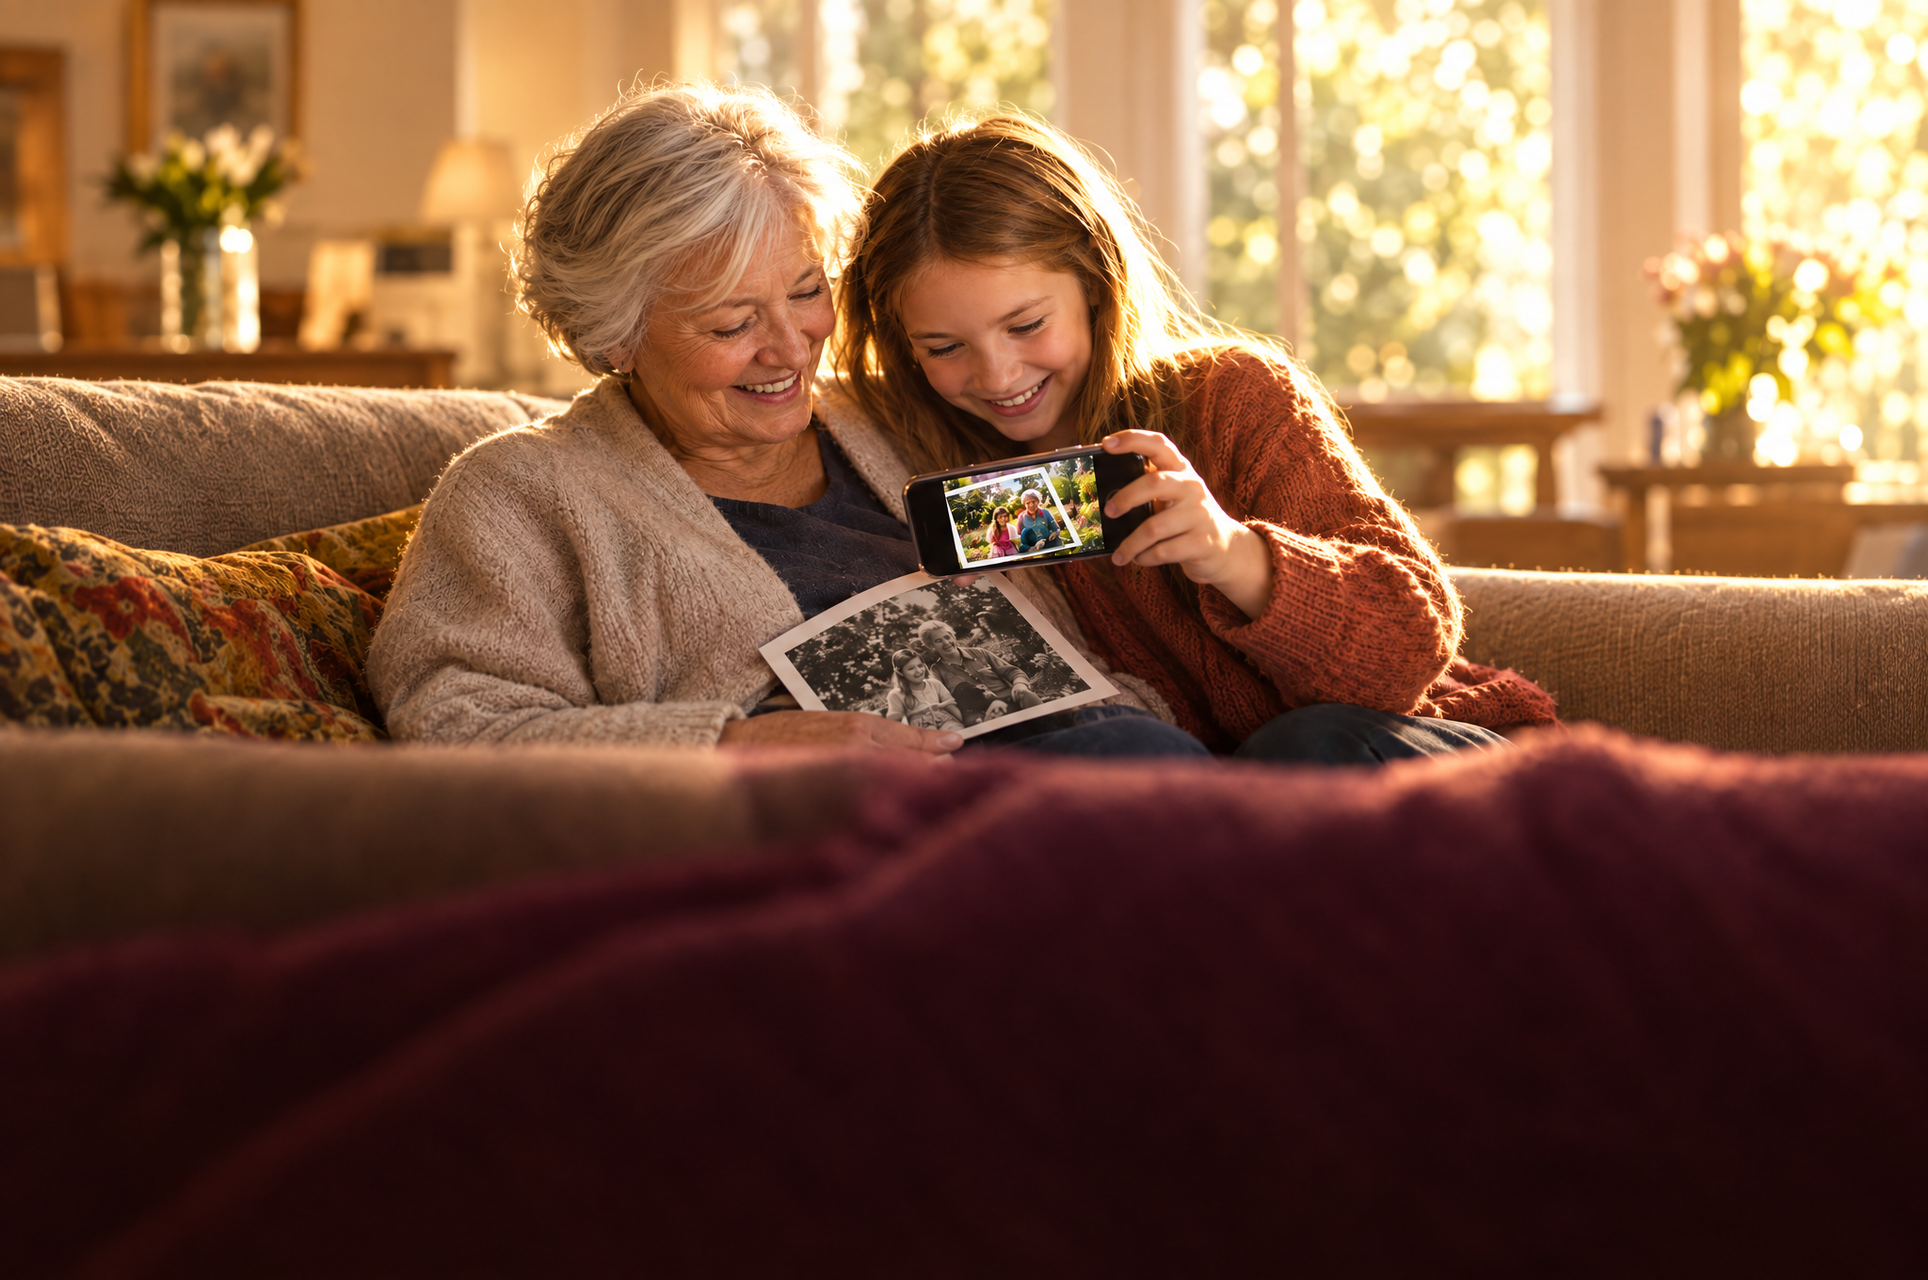
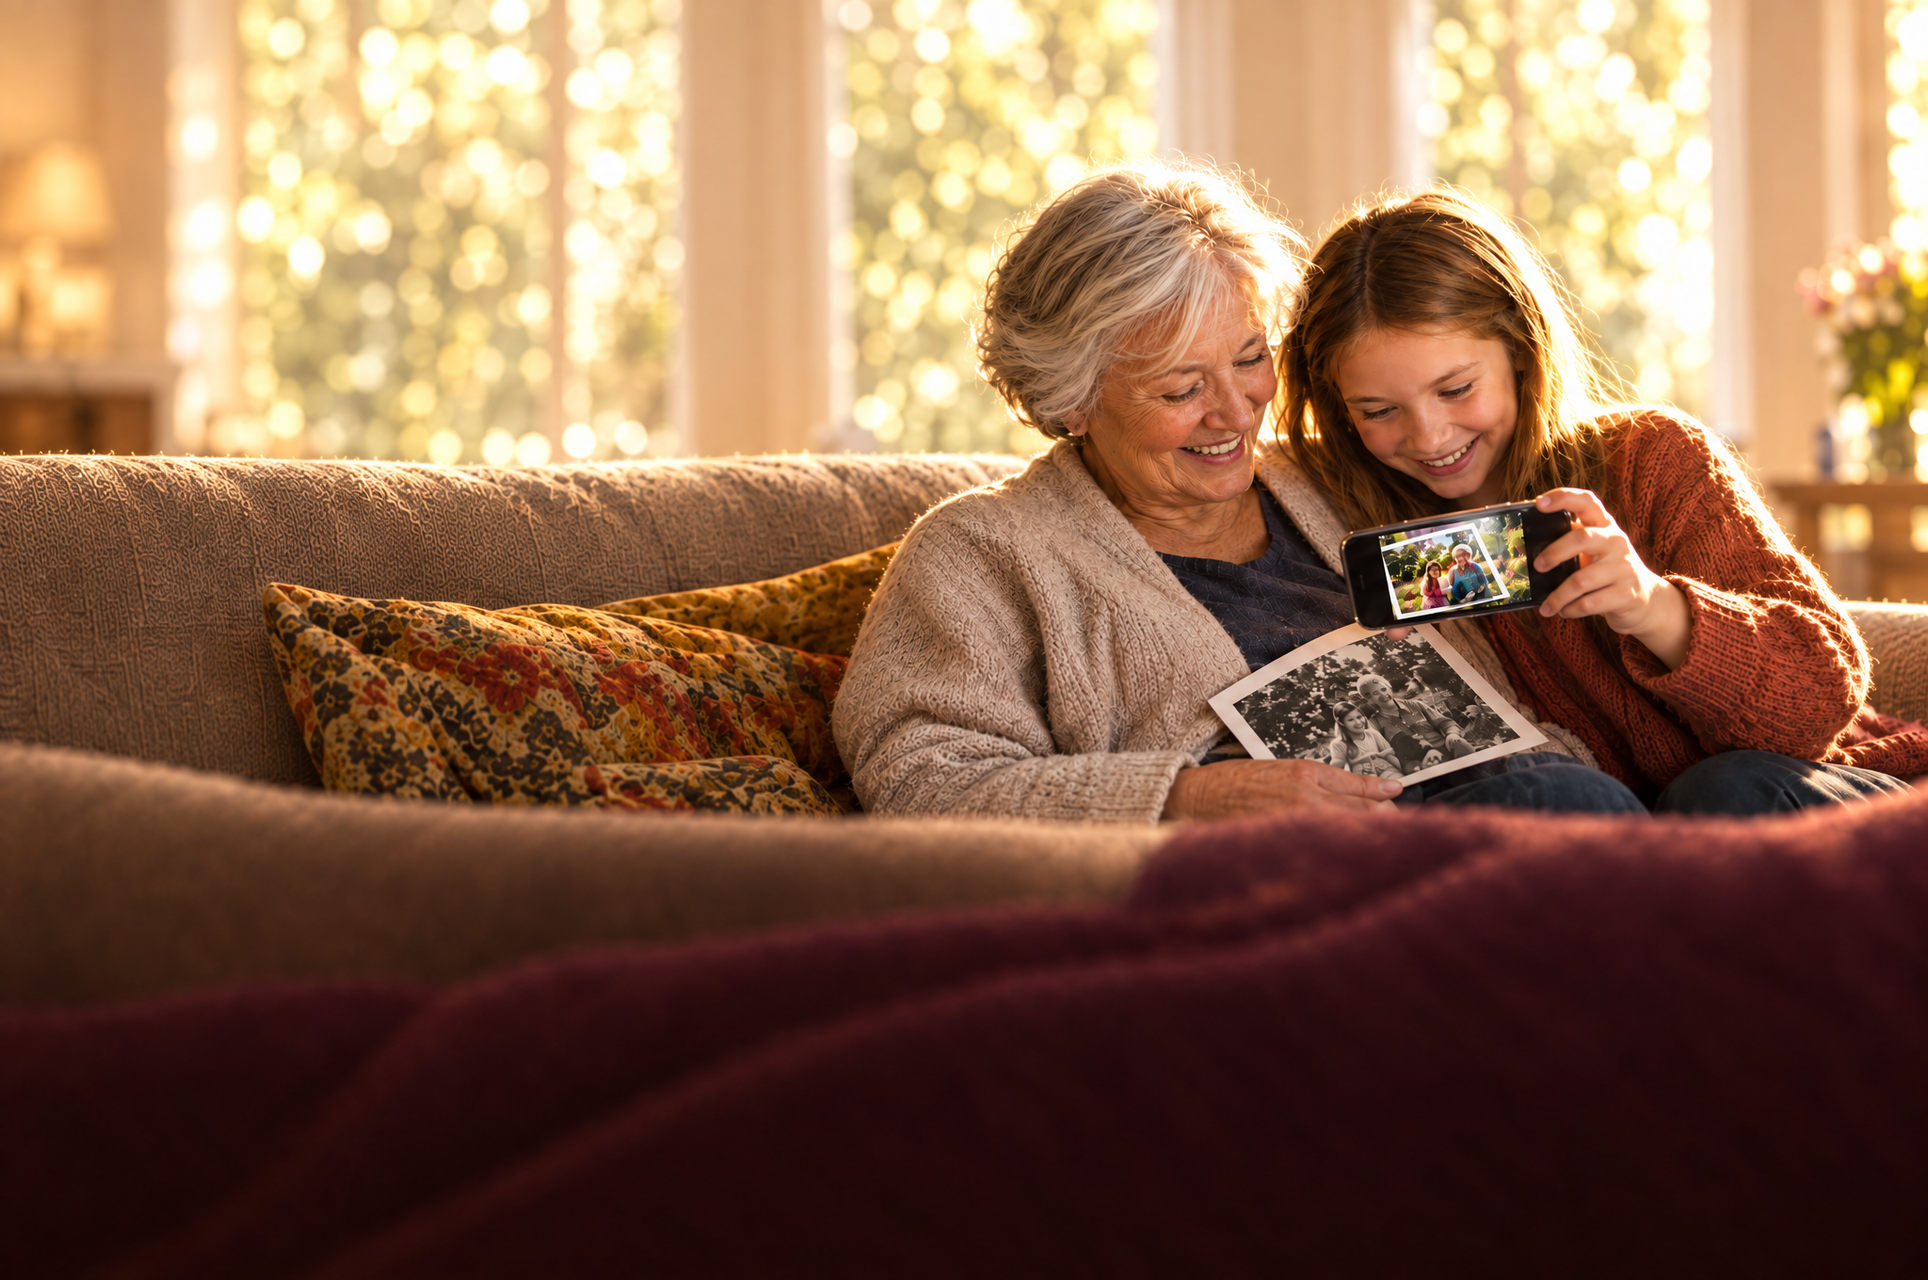
Client design review: brightness floor, rule 5/6, red-pill CTA, bright plates
- Photography rules 5 (never cover the point of interest) and 6 (orientation
  lock) added to design-system, style guide and CD QA gates
- Brightness floor codified: drama from light and colour, never a dark room
- Glass pill retired as a CTA; every send's action is a real brand button
  (story email switched to the red pill, scrim moved to plum)
- Plates S and W reshot bright from the approved Two Worlds frame with a
  landscape phone matching the landscape print (camera-honest orientation)
- Plate M reframed: pair right of centre, quiet upper-left, lobe clear of faces
- Web hero: taller crop + tightened type block clear the print's bottom edge
- QA log: client review entry + fix-round verdicts (all three composites SHIP)

diff --git a/index.html b/index.html
@@ -156,11 +156,11 @@ section:first-of-type{border-top:0}
 .knowhow .copyzone.b{left:0;right:0;bottom:0;height:40%;border-top:1.5px dashed #B79FC4}
 .knowhow .copyzone.l{left:0;top:0;bottom:0;width:42%;border-right:1.5px dashed #B79FC4;background:linear-gradient(90deg,rgba(43,10,52,.14),rgba(43,10,52,.05))}
 .knowhow .crop{border-color:#B79FC4}
-.photo-hero{position:relative;border-radius:28px;overflow:hidden;margin-top:22px;background:#0A0709 url("photography/plate-w.png") center/cover;min-height:470px;display:flex;flex-direction:column;justify-content:flex-end;align-items:center;text-align:center;padding:150px 32px 30px;box-shadow:var(--shadow)}
+.photo-hero{position:relative;border-radius:28px;overflow:hidden;margin-top:22px;background:#0A0709 url("photography/plate-w.png") center/cover;min-height:500px;display:flex;flex-direction:column;justify-content:flex-end;align-items:center;text-align:center;padding:150px 32px 18px;box-shadow:var(--shadow)}
 .photo-hero::before{content:"";position:absolute;inset:0;background:linear-gradient(180deg,rgba(43,10,52,0) 42%,rgba(43,10,52,.84) 100%)}
 .photo-hero .eb,.photo-hero h3,.photo-hero .btn{position:relative;z-index:1}
 .photo-hero .eb{font-family:var(--display);font-weight:400;font-size:12px;letter-spacing:.42em;text-transform:uppercase;color:#E9D5F5}
-.photo-hero h3{color:#fff;font-size:clamp(26px,3.4vw,36px);font-weight:700;letter-spacing:.03em;line-height:1.2;max-width:24ch;margin:10px auto 20px}
+.photo-hero h3{color:#fff;font-size:clamp(26px,3.4vw,36px);font-weight:700;letter-spacing:.03em;line-height:1.2;max-width:24ch;margin:8px auto 16px}
 .photo-hero .lobe{position:absolute;top:0;left:0;background:var(--bg);padding:18px 36px 15px 27px;border-bottom-right-radius:39px;z-index:2}
 .photo-hero .lobe svg{height:30px;width:auto;display:block}
 .photo-hero .lobe::before,.photo-hero .lobe::after{content:"";position:absolute;width:24px;height:24px;background:radial-gradient(circle at 100% 100%,transparent 23.5px,var(--bg) 24px)}
@@ -219,14 +219,14 @@ section:first-of-type{border-top:0}
 .mail.auto .top svg{height:5cqw;width:auto}
 .mail.auto .rule{height:.7cqw;background:linear-gradient(90deg,var(--purple),var(--red))}
 
-.mail.photo .hd{aspect-ratio:600/420;background:#1C0824 url("photography/plate-m.png") center/cover;justify-content:flex-end;padding-bottom:2.5cqw}
+.mail.photo .hd{aspect-ratio:600/420;background:#1C0824 url("photography/plate-m.png") left center/cover;justify-content:flex-end;padding-bottom:2.5cqw}
 .mail.photo .hd::before{content:"";position:absolute;inset:0;background:linear-gradient(180deg,rgba(43,10,52,0) 32%,rgba(43,10,52,.88) 100%)}
 .mail.photo .hd .eb,.mail.photo .hd h3,.mail.photo .hd .btn{position:relative;z-index:1}
 .mail.photo .hd h3{font-weight:700;font-size:6.33cqw;letter-spacing:.02em;line-height:1.18;margin-bottom:1.5cqw}
 .mail.photo .hd .btn{margin-top:2.8cqw}
 
-.mail.story .hd{aspect-ratio:600/420;background:#0B0710 url("photography/plate-s.png") center/cover;justify-content:flex-end;padding-bottom:6cqw}
-.mail.story .hd::before{content:"";position:absolute;inset:0;background:linear-gradient(180deg,rgba(8,5,12,0) 44%,rgba(8,5,12,.78) 100%)}
+.mail.story .hd{aspect-ratio:600/420;background:#1C0824 url("photography/plate-s.png") left center/cover;justify-content:flex-end;padding-bottom:4cqw}
+.mail.story .hd::before{content:"";position:absolute;inset:0;background:linear-gradient(180deg,rgba(43,10,52,0) 40%,rgba(43,10,52,.84) 100%)}
 .mail.story .hd .eb,.mail.story .hd h3,.mail.story .hd .btn{position:relative;z-index:1}
 .mail.story .hd .eb{color:#D9A9F0;margin-bottom:2cqw}
 .mail.story .hd h3{font-weight:400;font-size:5.67cqw;letter-spacing:.05em;margin-bottom:1cqw}
@@ -679,12 +679,14 @@ footer{margin-top:40px;font-size:13px;color:var(--ink-3)}
   </div>
   <p class="cap" style="margin-top:12px">Reshot 2026-09-17 (GPT-Image 2.5, 2K) with the mechanic as canon · files in <code>photography/</code>. Every brief is written by five roles — creative director, photographer, set dresser, lighting specialist, graphic designer — and every print/screen pair passes the mechanic gate: same image on both, screen alive and brighter. Warm shots (01, 02, 04, 05) are the everyday register; 03 and 06 are the campaign register — richer and more dramatic, but never dull.</p>
 
-  <h3 style="margin-top:34px">Photos under the brand — four rules</h3>
+  <h3 style="margin-top:34px">Photos under the brand — six rules</h3>
   <div class="grid g2" style="margin-top:14px">
     <div class="card"><h4>1 · The plum scrim</h4><p>Type never sits raw on a photograph. A gradient rises from the edge that carries the type — transparent → <code>rgba(43,10,52,.84)</code> (near-black plum, not grey) — covering the bottom 55–65%. Type on it is always white; on very dark photos (06) a neutral near-black scrim at lower opacity is enough.</p></div>
     <div class="card"><h4>2 · The screen is sacred</h4><p>Scrims, washes and logos never dim the phone screen — it must stay the brightest, most saturated element in the frame. Anchor the scrim to the edge <em>away</em> from the screen, and crop so the screen escapes it.</p></div>
     <div class="card"><h4>3 · Accents in-scene, not in post</h4><p>Purple, red and violet enter as wardrobe, props and light — ribbon, pencil, mug, raincoat, screen glow — planted at the shoot. No duotones, no colour overlays on faces, no recolouring in post.</p></div>
     <div class="card"><h4>4 · Containers do the branding</h4><p>Photos live inside brand geometry: 18–28px rounded corners or the squircle window, the lobe carrying the logo in the top-left, the scrim carrying the type. The photo stays honest; the brand rides on the frame around it.</p></div>
+    <div class="card"><h4>5 · Never cover the point of interest</h4><p>No overlay — lobe, logo, type, badge — ever sits on the subject, above all on <b>faces</b> or the living screen. Overlays live on quiet image only. If a layout's lobe would touch the subject, the <em>plate</em> is wrong (reframe or reshoot); never ship the overlap. <span class="cap">(Client review, 2026-09-17.)</span></p></div>
+    <div class="card"><h4>6 · Orientation lock</h4><p>The screen shows what a real camera would see. Three honest reads: the phone <b>matches the print's orientation</b>; or the print's <b>edges are visible inside the screen</b>; or the view is an unmistakable <b>zoomed-in detail</b>. Never the whole scene recomposed to fit the screen's aspect — a portrait phone showing an entire landscape print full-bleed breaks the camera-mode illusion instantly. <span class="cap">(Client review, 2026-09-17.)</span></p></div>
   </div>
 
   <h3 style="margin-top:34px">Photo as the hero — a layered stack, not segments</h3>
@@ -873,14 +875,14 @@ footer{margin-top:40px;font-size:13px;color:var(--ink-3)}
         <div class="lobe"><svg viewBox="36 196 461 120" fill="none" xmlns="http://www.w3.org/2000/svg" aria-hidden="true"><use href="#logo2t"/></svg></div>
         <div class="eb">From the field</div>
         <h3>The gallery that came alive</h3>
-        <button class="btn ghost" type="button">Read the Story</button>
+        <button class="btn action" type="button">Read the Story</button>
       </div>
       <div class="bd">
         <p style="margin:0 auto">How a photography exhibit in Los Angeles hid twelve films inside twelve prints.</p>
       </div>
       <div class="ftr">Unsubscribe · View in the browser · 18129 Kingsport Drive, Malibu, CA 90265</div>
     </div>
-    <div class="cap" style="margin-top:8px"><b>Story / editorial — dark photo hero</b> — campaign-register image, so the scrim is a lighter neutral near-black and the eyebrow goes lavender. A soft send has no red: the glass-white pill is the calm CTA; red would promote it to marketing.</div></div>
+    <div class="cap" style="margin-top:8px"><b>Story / editorial — photo hero</b> — campaign-register image: richer and more directional than the everyday sends, but still bright and inviting — drama comes from light and colour, never from a dark room. The eyebrow goes lavender, and the CTA follows the button rules like any other send: <b>the send's one action is a real brand button</b> — the red pill on dark grounds. (The glass pill is retired as a CTA — client review 2026-09-17: it reads as unbranded.)</div></div>
   </div>
   <p class="cap" style="margin-top:14px">Footers carry the real Malibu address, no phone number, and a current © year (settled 17 Sep 2026) — the live mailers still carry the Mailercloud Tokyo placeholder; replace before any send.</p>
   <h3 style="margin-top:30px">App</h3>

diff --git a/production-workflow.md b/production-workflow.md
@@ -95,14 +95,21 @@ One prompt/brief carries all five voices; a brief missing a role's answer isn't 
 Review the **final composite** (photo + scrim + type + lobe + CTA), never the photo alone:
 
 1. **Goal** — does the piece deliver the producer's paragraph at a glance?
-2. **Impact** — is the subject unobstructed? Type entirely on negative space? Screen
-   the brightest point? Would you stop scrolling?
+2. **Impact** — is the subject unobstructed? **Nothing overlaps the point of interest** —
+   the lobe, logo, type and badges never sit on the subject, above all on faces (an
+   overlapped focal point is the fastest "an AI made this" tell). Type entirely on
+   negative space? Screen the brightest point? Would you stop scrolling?
 3. **Brand** — scrim per photography rule 1, screen sacred per rule 2, accents in-scene
-   per rule 3, containers per rule 4; type scale, tracking and red-usage per the system.
+   per rule 3, containers per rule 4, focal point uncovered per rule 5, orientation lock
+   per rule 6; **brightness floor** — fun, bright brand: drama comes from light and
+   colour, never a dark room; type scale, tracking and red-usage per the system; the
+   send's CTA is a real brand button (red pill on dark, purple on light — never glass).
 4. **Mechanic** — if a print and a screen share the frame: same image on both, screen a
    slightly tighter living crop, print frozen, life inside the print's frame
-   (design-system §5, "The mechanic"). A screen showing unrelated footage is an automatic
-   reshoot, not a fix.
+   (design-system §5, "The mechanic"). **Orientation lock:** the screen shows what a real
+   camera would see — matching orientation, or the print's edges inside the screen, or an
+   unmistakable zoomed detail; a portrait screen full-bleeding an entire landscape print
+   is an automatic FIX. A screen showing unrelated footage is an automatic reshoot.
 
 Verdict: **ship / fix (specific notes) / reshoot**. Two failed fixes = reshoot.
 
@@ -124,8 +131,10 @@ Verdict: **ship / fix (specific notes) / reshoot**. Two failed fixes = reshoot.
 - **Wireframe:** W1 at 600×420. Copy footprint bottom 40–45% → point of interest (the
   B&W print + phone with the living sunset) framed in the upper 55–60%; the charcoal
   studio wall falls to black beneath it. Shot wider than the crop.
-- **Shot brief:** single spotlight from above so the light pools on the print and dies
-  before the bottom of frame; phone screen upper-right; 3:2.
+- **Shot brief:** bright airy daylight studio (brightness floor applies — no dark rooms);
+  landscape print pinned to a warm sunlit wall, **landscape** phone in camera mode over it
+  (orientation lock); cluster upper half right of centre; the lower frame quiet lit wall
+  easing to gentle shadow. The plum scrim supplies the type contrast, not the scene. 3:2.
 
 ### Plate W — web photo hero ("The living side")
 - **Goal:** instant comprehension of the product promise over a full-width hero, with a
@@ -133,9 +142,10 @@ Verdict: **ship / fix (specific notes) / reshoot**. Two failed fixes = reshoot.
 - **Wireframe:** W1 at ~21:9. Copy footprint bottom 45%, centred → point of interest
   (print + phone) framed in the upper half, right of centre to balance the lobe top-left;
   empty dark wall/table runs the full bottom width. Shot wider than the crop.
-- **Shot brief:** the Two Worlds studio concept recomposed for 21:9: print and hand-held
-  phone raised into the upper half, spotlight tight, bottom half of frame near-black
-  empty space. 21:9.
+- **Shot brief:** the Two Worlds studio concept recomposed for 21:9: sunlit wall, landscape
+  print with a **landscape** phone in camera mode raised into the upper half right of
+  centre; upper left quiet lit wall; the full-width bottom band quiet wall easing to soft
+  shadow — lit, never black (brightness floor). The plum scrim carries the type. 21:9.
 
 ## QA log — 2026-09-17 (all three shipped)
 
@@ -185,6 +195,40 @@ every brief written by the five-role crew, every image gated on the mechanic.
   right of centre, 12% margins) rather than fighting the crop. Bonus: the reframe put the
   phone overlapping its print — a stronger live-camera read. Final: all three composites
   SHIP. Lesson: when a crop has no slack, fix the plate, not the layout.
+
+## QA log — client design review, story email (2026-09-17)
+
+The client reviewed the shipped story email and failed it on four counts. All four are now
+codified (photography rules 5–6, the brightness floor, the CTA rule) so no future pass
+repeats them:
+
+- **Too dark.** "This brand is fun and bright; the image doesn't reflect that." The
+  campaign register had drifted from *dramatic* to *murky*. → Brightness floor added:
+  drama comes from directional light and rich colour, never a dark room.
+- **The lobe overlapped the print** — the focal point. "I now know that an AI designed
+  this and I immediately don't like the design." → Rule 5: no overlay ever sits on the
+  subject, above all faces; if the lobe would touch the subject, the plate is wrong, not
+  the layout.
+- **The CTA read as off-brand.** The glass-white pill didn't feel like a primary button —
+  because it wasn't one. → The glass pill is retired as a CTA; every send's action is a
+  real brand button (red pill on dark grounds, purple on light).
+- **Orientation break.** Landscape print on the wall, portrait full-bleed image inside
+  the phone — "that destroys the illusion that it's the same thing and his phone is in
+  camera mode." Audit found the same break on the web plate. → Rule 6 (orientation lock)
+  added to the photography rules and the CD mechanic gate.
+
+Fix: both studio plates (S and W) reshot from the approved Two Worlds frame — bright airy
+studio, landscape print with a **landscape** phone in camera mode — solving brightness and
+orientation in one move; story CTA switched to the red pill; story scrim moved to plum.
+
+**Fix-round CD QA:** web hero SHIP first pass (after the type block was tightened to clear
+the print's bottom edge — the taller hero flips the cover-crop to the horizontal axis and
+reveals the plate's full quiet band). The CD then flagged the marketing send: the new
+rule-5 gate caught the lobe grazing the grandmother's hair — a break the earlier "on
+brand" reviews had sailed past. Crop slack was exhausted, so per doctrine the *plate* was
+reframed (pair right of centre, upper-left quarter quiet sofa/bokeh, full headroom), not
+the layout. Final round: all three composites SHIP. Watch item: ~10px headline-to-hand
+clearance on marketing — no room for further upward cropping.
 
 ## QA log — mechanic demo film (2026-09-17)
 

diff --git a/design-system.md b/design-system.md
@@ -281,8 +281,11 @@ never as a filter in post.
 
 Two registers: **everyday** (warm, window- or lamp-lit, joyful: The Moment, Demonstrate,
 The Wall, The Gift) and **campaign** (dramatic, the screen carries the colour: Looking,
-Two Worlds). Even the campaign register stays rich and luminous — dark ≠ dull; the emotion
-is wonder, never bleak.
+Two Worlds). **The brightness floor (client review, 2026-09-17):** this is a fun, bright
+brand — the campaign register's drama comes from *directional light and rich colour*,
+never from darkness. Bright studio, warm gallery, golden hour: yes. A near-black room
+with one pool of light: no — if a frame could pass for a moody thriller still, it is off
+brand, whatever the register.
 
 Rules for photos in layouts:
 
@@ -296,13 +299,27 @@ Rules for photos in layouts:
    recolouring. Plant the brand colour at the shoot.
 4. **Containers do the branding** — photos live inside brand geometry: 18–28px radii or the
    squircle window, the lobe carrying the logo top-left, the scrim carrying the type.
+5. **Never cover the point of interest** (client review, 2026-09-17) — no overlay (lobe,
+   logo, type, badge) ever sits on the subject, above all on **faces** or the living
+   screen. Overlays live on quiet image only. If a layout's lobe would touch the subject,
+   the *plate* is wrong — reframe or reshoot it; never ship the overlap. An overlapped
+   focal point is the single fastest "an AI made this" tell.
+6. **Orientation lock** (client review, 2026-09-17) — the screen shows what a real camera
+   would see. Three honest reads: the phone **matches the print's orientation**; the
+   print's **edges are visible inside the screen**; or the view is an unmistakable
+   **zoomed-in detail**. Never the whole scene recomposed to fit the screen's aspect — a
+   portrait phone showing an entire landscape print full-bleed destroys the camera-mode
+   illusion.
 
 **Photo as the hero:** same anatomy as the gradient hero — lobe top-left, content centred
 horizontally — but the content drops to the bottom edge onto the scrim (the photo is the
 content; don't float type mid-image). Eyebrow goes lavender `#E9D5F5`, headline white,
 red keeps its one job (the primary action). In email, the photo-hero marketing template and
-the dark story/editorial template in the style guide are the references; soft sends use a
-glass-white pill instead of red.
+the story/editorial template in the style guide are the references. **Every send's one CTA
+is a real brand button** per the button rules — the red pill on dark grounds and
+photography, the purple pill on light grounds. The glass-white pill is retired as a CTA
+(client review, 2026-09-17: it reads as unbranded); glass is for captions and panels,
+never for actions.
 
 **Production rule (2026-09-17):** photo-led layouts are never assembled from photos that
 already exist. The pipeline is **goal → wireframe → shoot-to-wireframe → CD QA**. The
